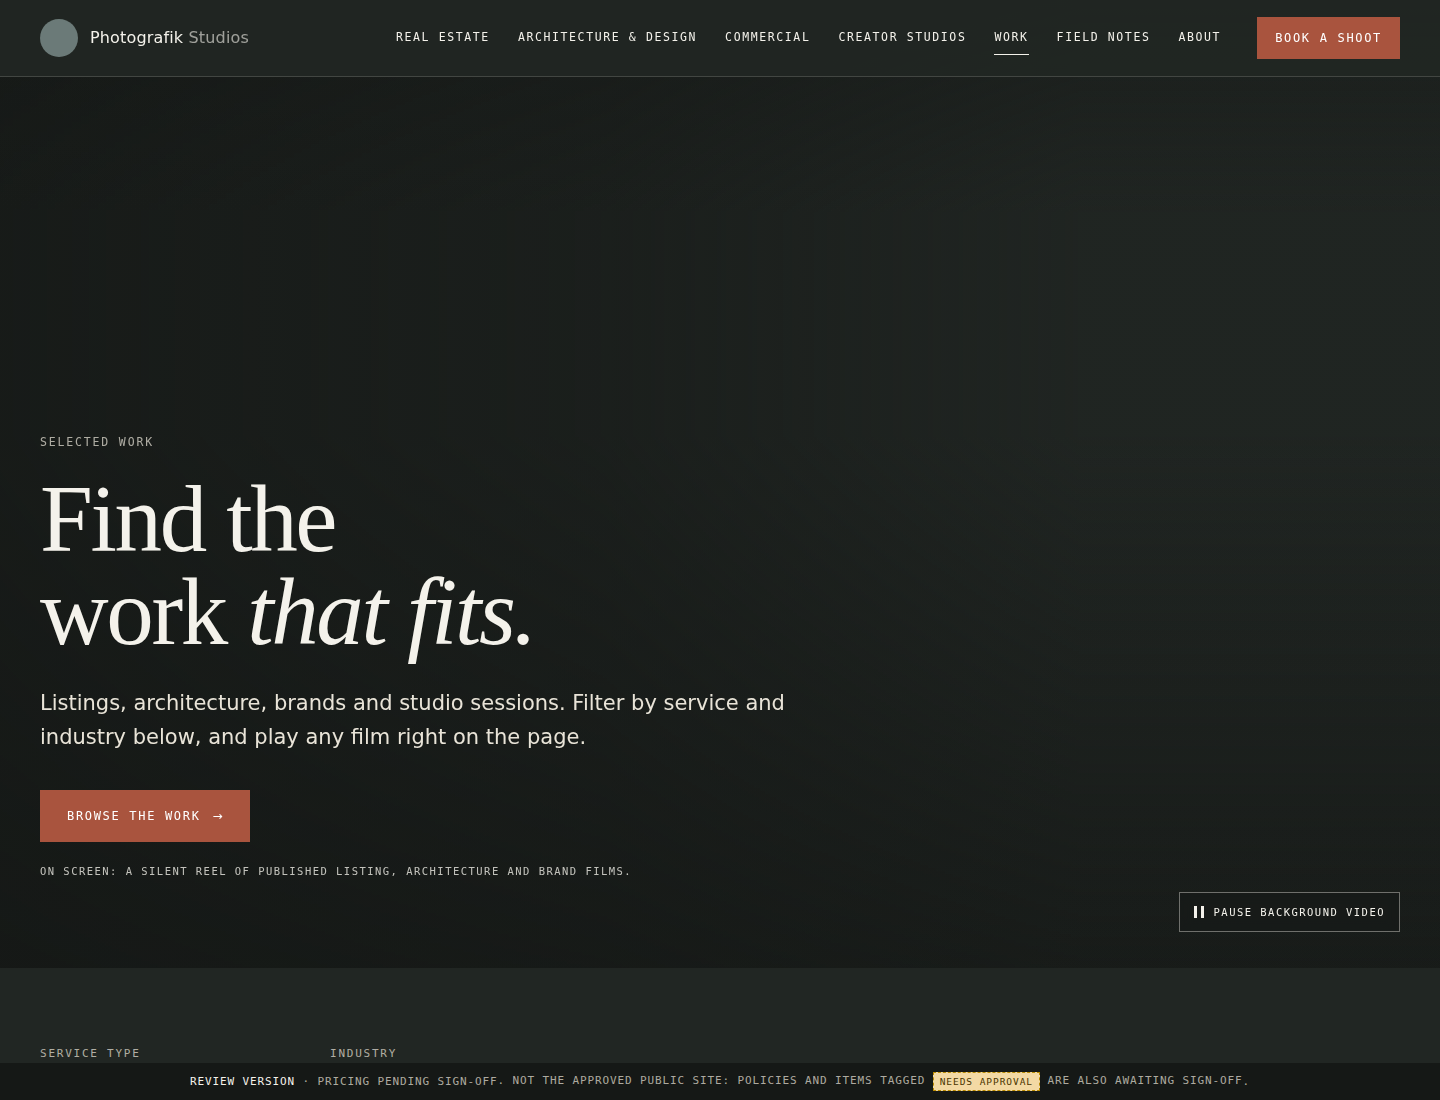
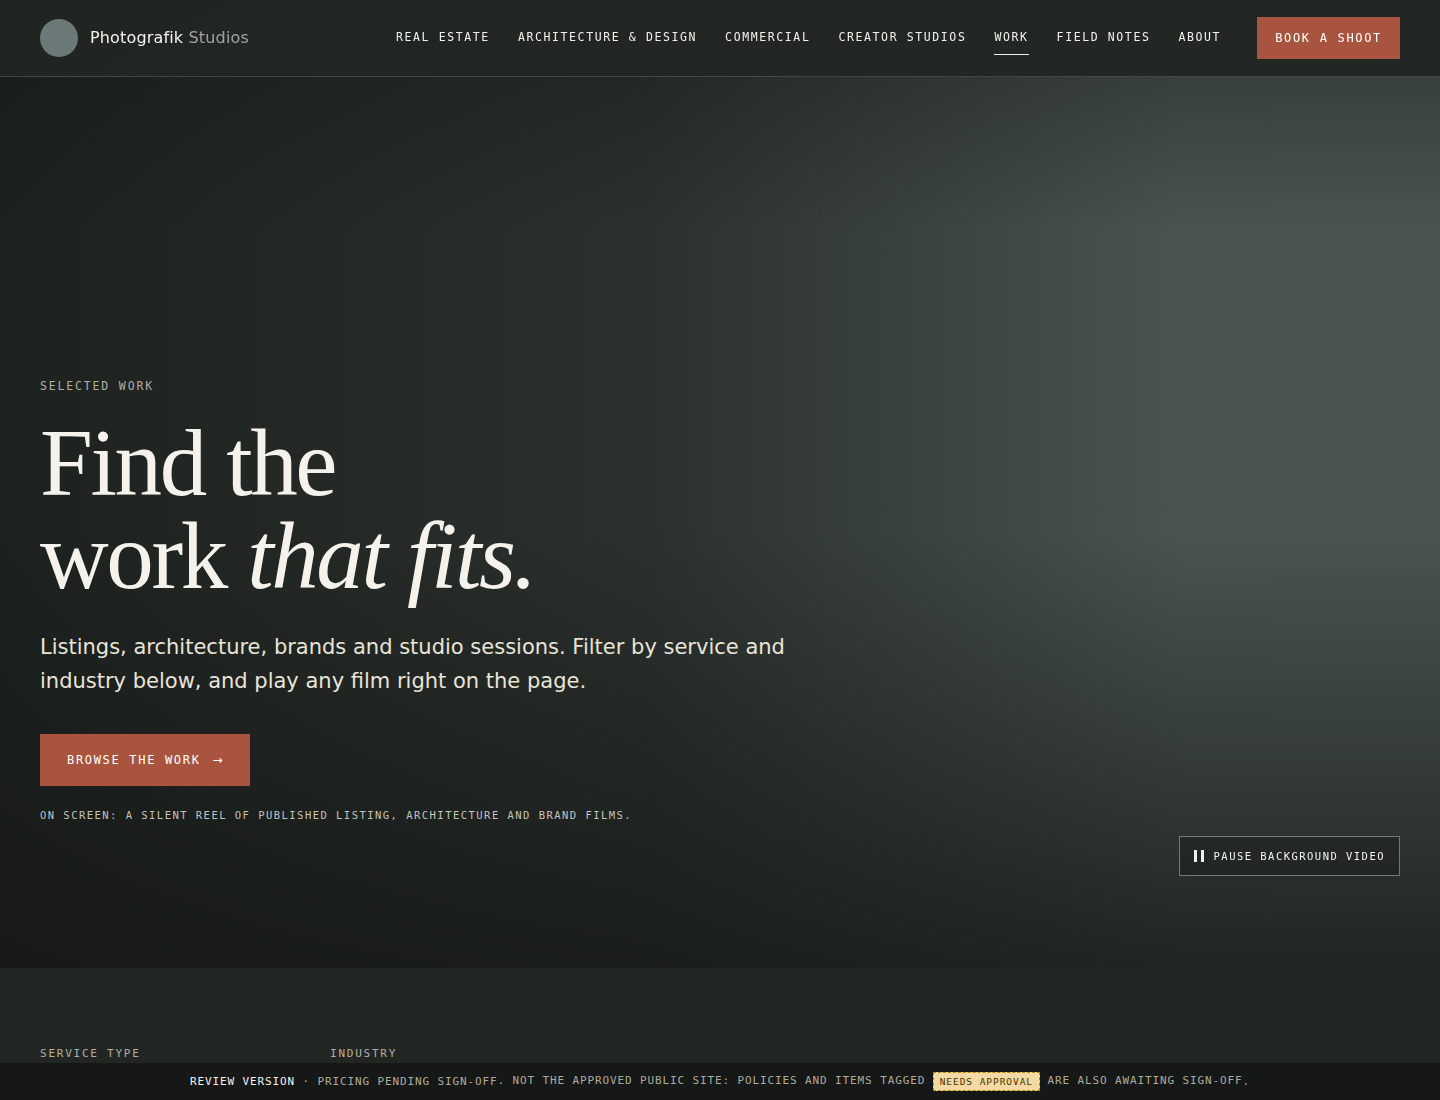
Hero polish: deeper scrim, controls clear of review bar, taller desktop quick tiles; withhold unverified Noah Knows clip location
Claude-Session: https://claude.ai/code/session_01QdXDHTFB7SVkVxiv2k6vdC

diff --git a/src/assets/styles.css b/src/assets/styles.css
@@ -700,7 +700,8 @@ button.gcard__open:hover .sw-card__play { transform: scale(1.06); }
 
 /* ---------- Home quick tiles: owner-selected stills, framed for the text block ---------- */
 .quick__media--listings img { object-position: 50% 58%; }
-.quick__media--brand img { object-position: 50% 42%; }
+.quick__media--brand img { object-position: 45% 40%; }
+@media (min-width: 900px) { .quick__tile { min-height: clamp(520px, 46vw, 660px); } }
 
 /* ---------- Commercial: client-by-client groups ---------- */
 .proj-group { padding-top: clamp(36px, 5vw, 64px); margin-top: clamp(36px, 5vw, 64px); border-top: 1px solid var(--line-dark); }
@@ -725,3 +726,11 @@ button.gcard__open:hover .sw-card__play { transform: scale(1.06); }
 @media (max-width: 640px) { .formats, .steps--4 { grid-template-columns: 1fr; } }
 .hero-credit--home { position: absolute; left: 0; right: 0; bottom: clamp(16px, 3vw, 36px); margin: 0 auto; pointer-events: none; z-index: 2; }
 @media (max-width: 700px) { .hero-credit--home { display: none; } }
+/* Review builds: keep hero controls and credits clear of the fixed review bar. */
+.has-review-bar .hero .motion-toggle, .has-review-bar .page-hero .motion-toggle { bottom: calc(clamp(16px, 3vw, 36px) + var(--review-bar-h, 56px)); }
+.has-review-bar .hero-credit--home { bottom: calc(clamp(16px, 3vw, 36px) + var(--review-bar-h, 56px)); }
+.has-review-bar .hero__inner, .has-review-bar .page-hero--video .page-hero__inner { padding-bottom: calc(clamp(56px, 8vh, 96px) + var(--review-bar-h, 56px)); }
+@media (max-width: 700px) { .has-review-bar { --review-bar-h: 36px; } }
+/* Hero films move and can be bright: a deeper left-side scrim keeps the headline and lede at AA contrast. */
+.page-hero--video .page-hero__media::after, .hero--video .hero__media::after { background: linear-gradient(90deg, rgba(21,24,22,.88) 0%, rgba(21,24,22,.66) 45%, rgba(21,24,22,.18) 82%), linear-gradient(180deg, rgba(21,24,22,.5) 0%, rgba(21,24,22,0) 24%, rgba(21,24,22,0) 55%, rgba(21,24,22,.78) 100%); }
+@media (max-width: 700px) { .page-hero--video .page-hero__media::after, .hero--video .hero__media::after { background: linear-gradient(180deg, rgba(21,24,22,.55) 0%, rgba(21,24,22,.4) 30%, rgba(21,24,22,.92) 72%); } }

diff --git a/src/layout.js b/src/layout.js
@@ -36,7 +36,7 @@ ${reviewMode ? '<meta name="robots" content="noindex, nofollow">' : ''}
 <link rel="stylesheet" href="/assets/styles.css?v=${ctx.version}">
 ${join([].concat(jsonLd || []), (j) => `<script type="application/ld+json">${JSON.stringify(j).replace(/</g, '\\u003c')}</script>`)}
 </head>
-<body class="${[dark ? 'page--dark' : '', overlay ? 'has-overlay' : ''].join(' ').trim()}">
+<body class="${[dark ? 'page--dark' : '', overlay ? 'has-overlay' : '', reviewMode ? 'has-review-bar' : ''].join(' ').trim()}">
 <a class="skip" href="#main">Skip to content</a>
 ${reviewMode ? `<div class="review-bar" role="note"><strong>Review version</strong> · Pricing pending sign-off<span class="review-bar__long">. Not the approved public site: policies and items tagged <span class="needs-approval">Needs approval</span> are also awaiting sign-off</span>.</div>` : ''}
 <header class="site-header">
